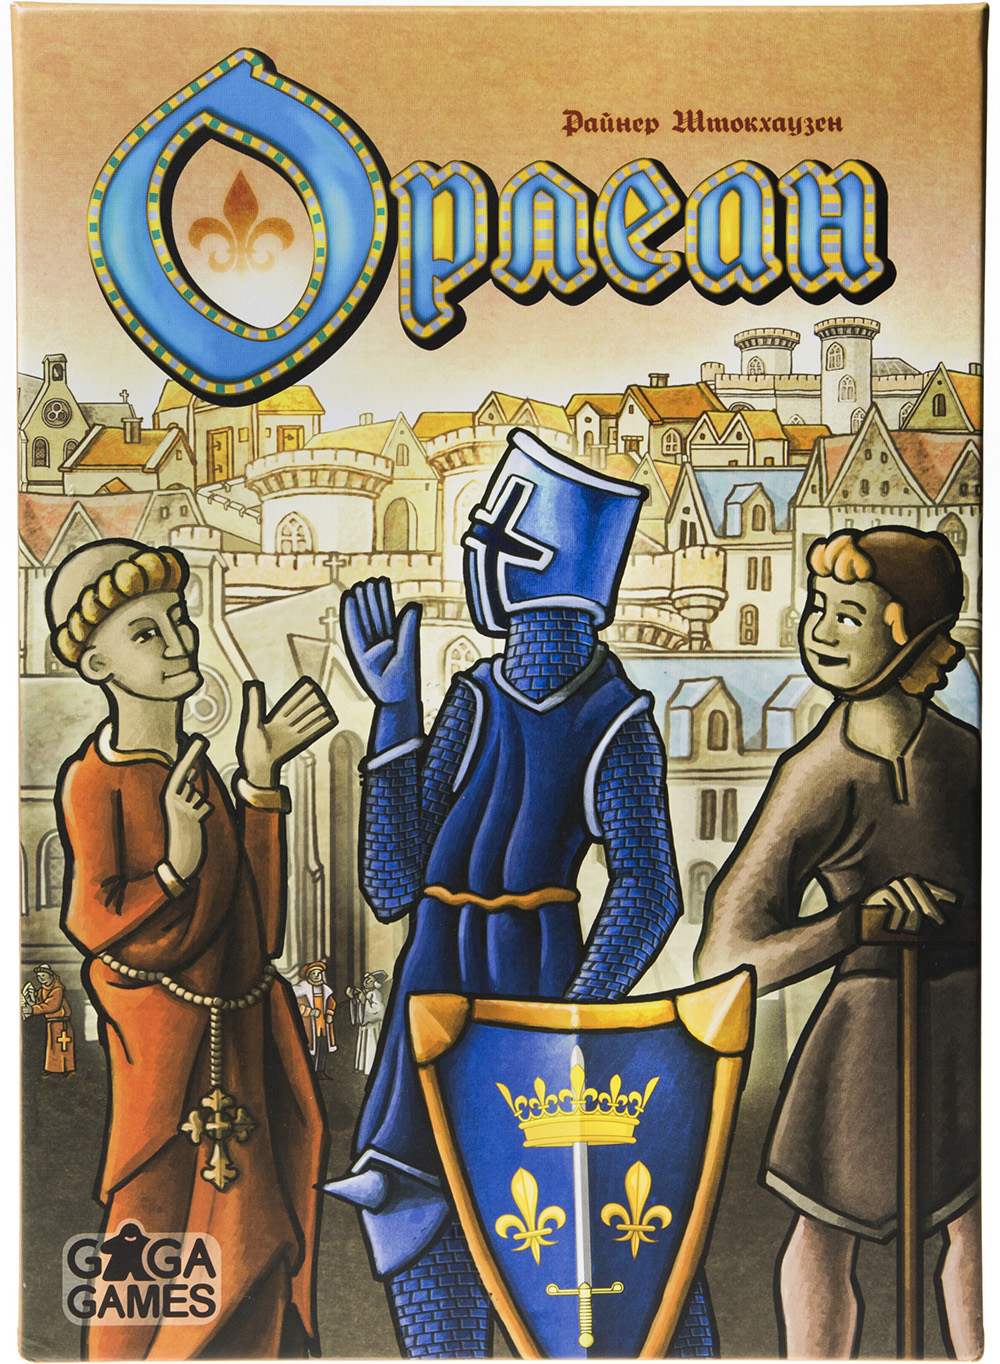
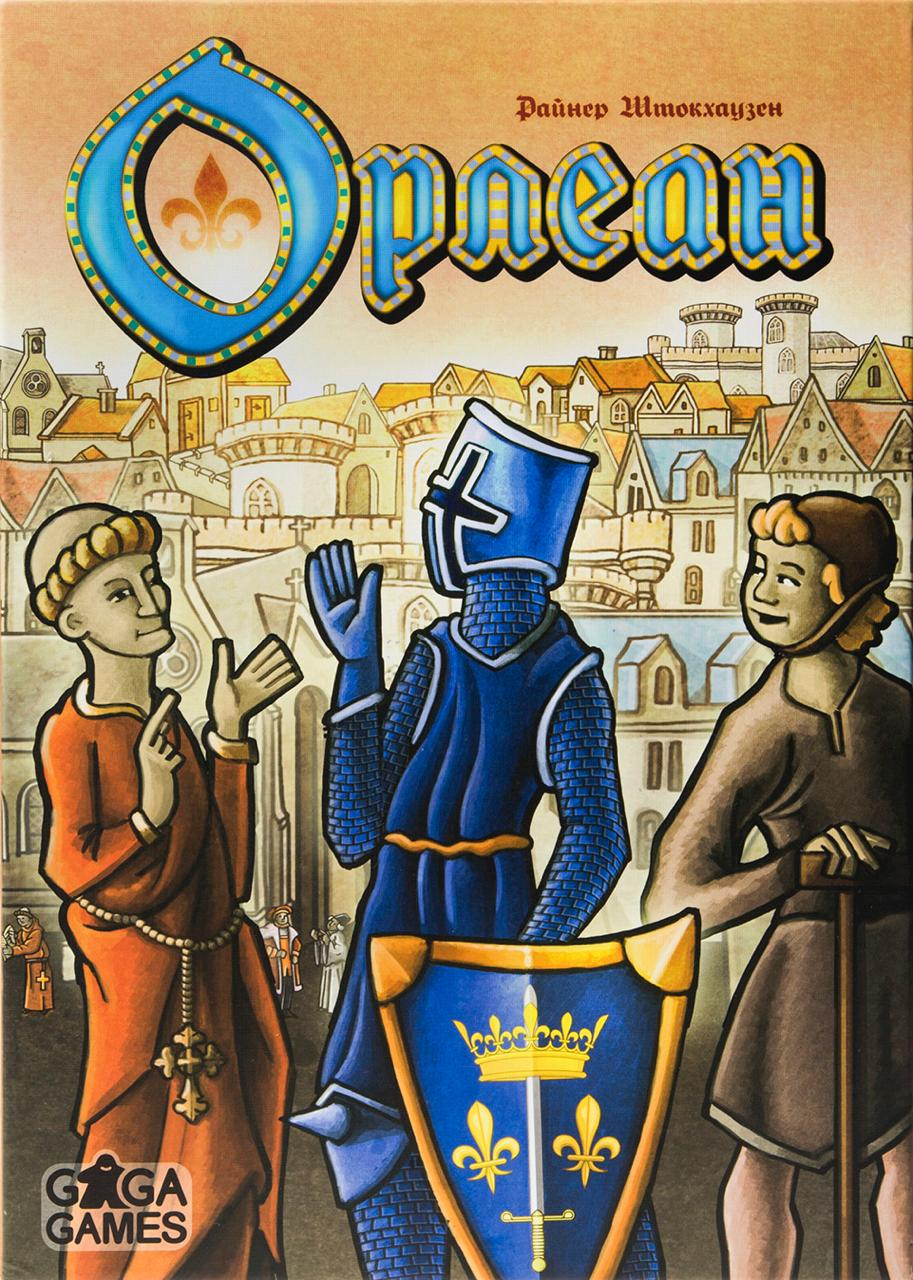
feat: добавил подземелья и пёсиков, пофиксил картинку орлеана

diff --git a/src/data/games-single-statistics/tales-of-tails.ts b/src/data/games-single-statistics/tales-of-tails.ts
@@ -1,0 +1,13 @@
+import { GameInfo, PlayerScores } from '@/types'
+
+const TALES_OF_TAILS_GAMES: PlayerScores<number> = [
+  { Соня: 5, Андрей: 3, Илья: 17 },
+  { Илья: 16, Андрей: 12 },
+  { Андрей: 20, Илья: 13 },
+]
+
+export const TALES_OF_TAILS: GameInfo = {
+  games: TALES_OF_TAILS_GAMES,
+  title: 'Подземелья и пёсики',
+  imgPath: 'tales-of-tails.jpg',
+}

diff --git a/src/data/games.ts b/src/data/games.ts
@@ -33,6 +33,7 @@ import {
   UNMATCHED_LEGEND,
   WINSPAWN,
   ZAMES,
+  TALES_OF_TAILS,
 } from './games-single-statistics'
 
 export const GAMES_LIST: Games = [
@@ -68,4 +69,5 @@ export const GAMES_LIST: Games = [
   SEVEN_WONDERS,
   PALEO,
   WINSPAWN,
+  TALES_OF_TAILS,
 ]

diff --git a/src/data/games-single-statistics/index.ts b/src/data/games-single-statistics/index.ts
@@ -28,3 +28,4 @@ export { BATTLE_WIZARDS_MURDERSHROOM_MARSH } from './battle-wizards-murdershroom
 export { SEVEN_WONDERS } from './seven-wonders'
 export { PALEO } from './paleo'
 export { WINSPAWN } from './winspawn'
+export { TALES_OF_TAILS } from './tales-of-tails'

diff --git a/src/types/game.ts b/src/types/game.ts
@@ -33,6 +33,7 @@ export type GameTitles =
   | '7 чудес'
   | 'Палео'
   | 'Крылья'
+  | 'Подземелья и пёсики'
 
 export type GameInfo = {
   imgPath: string
